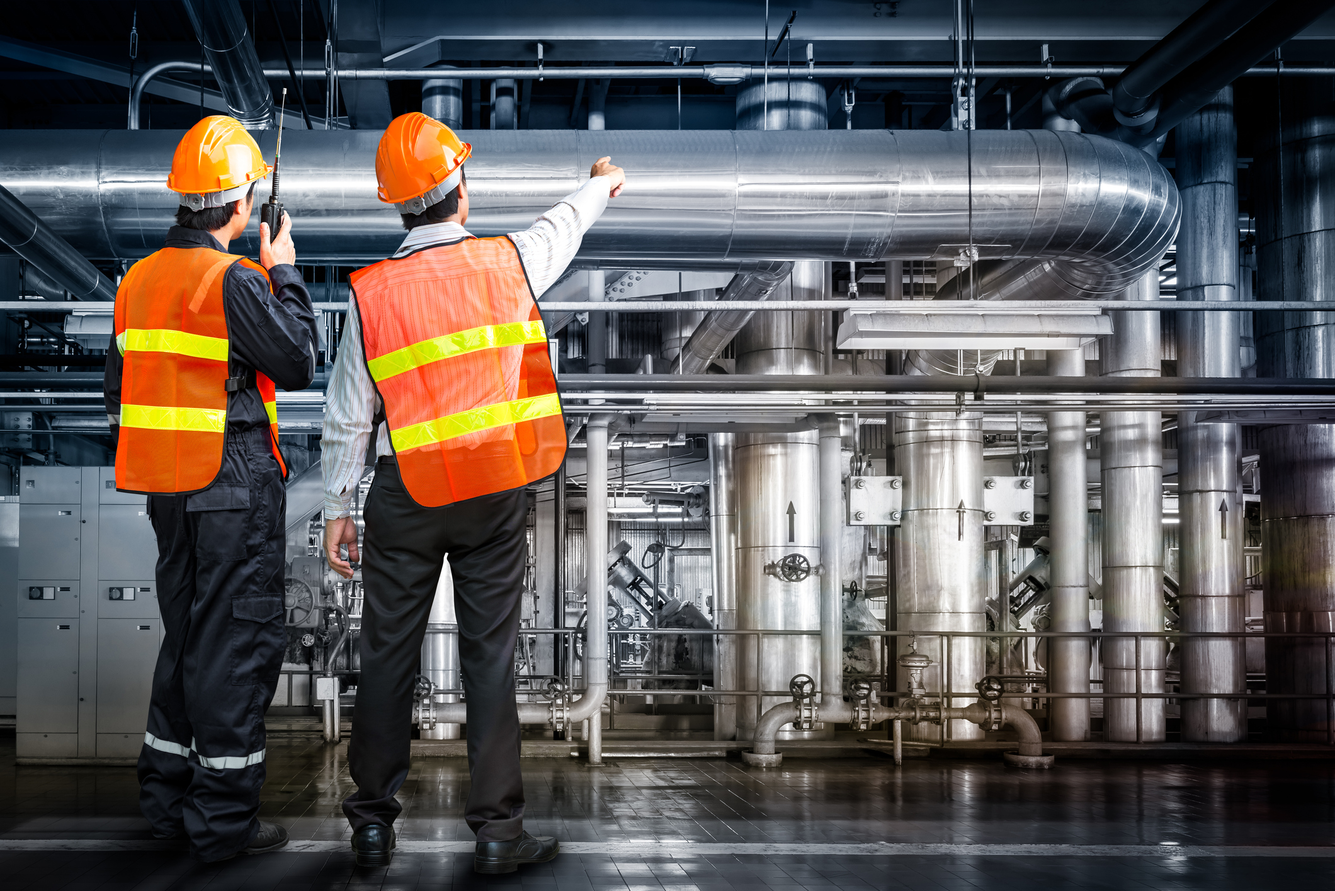
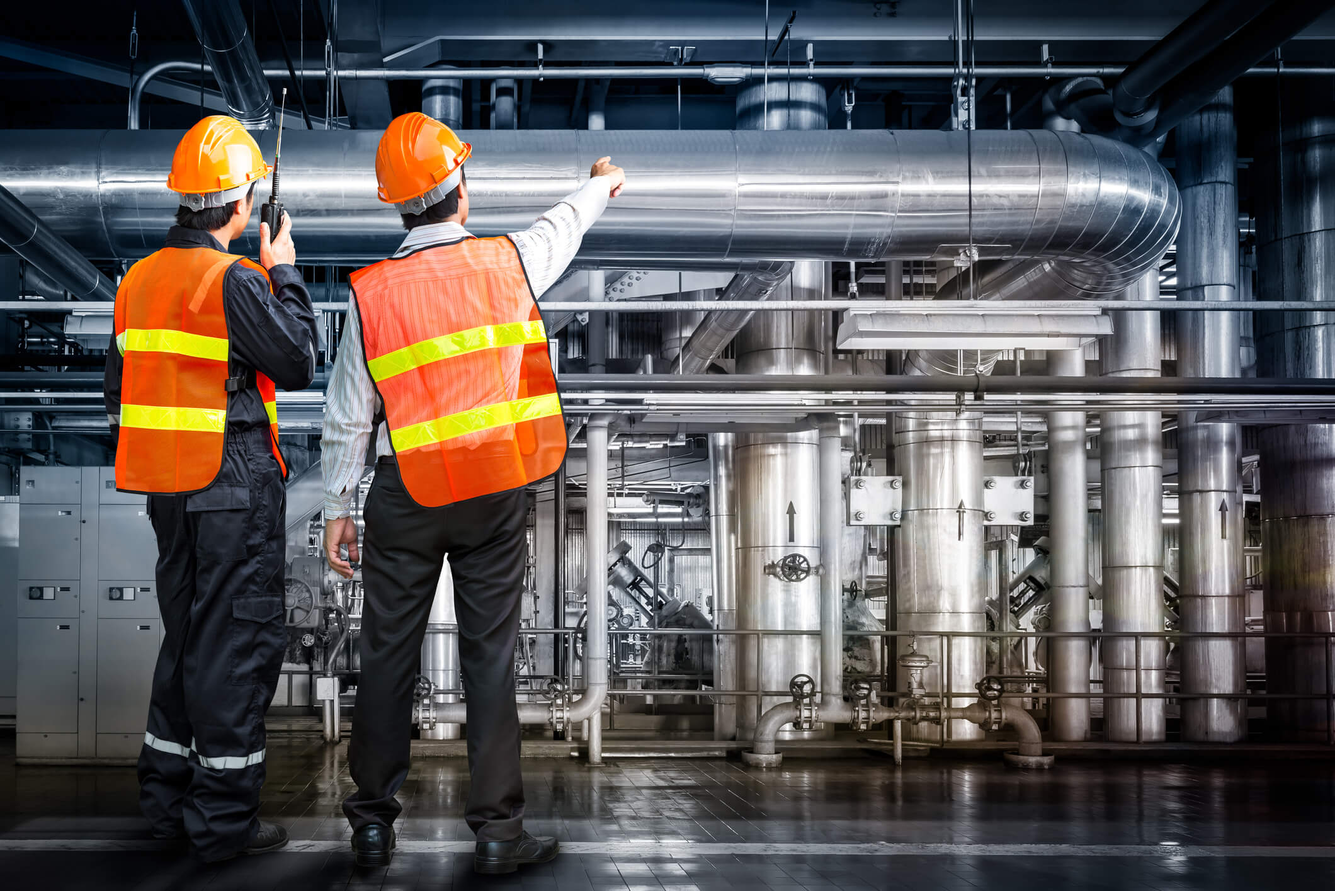
image compression

diff --git a/html/contact.html b/html/contact.html
@@ -330,7 +330,7 @@
 
                   <div class="medium-12 cell text-right">
               
-                    <a href="#" class="button expanded">Submit</a>
+                    <a href="#" class="button expanded large">Submit</a>
               
                   </div>
               

diff --git a/html/css/app.css b/html/css/app.css
@@ -213,7 +213,7 @@ body {
     border-color: #a92231 transparent transparent;
 }
 
-.dropdown-menu .is-active a {
+.dropdown-menu-submenu-parent .is-active > a {
 	color: #232323;
 }
 
